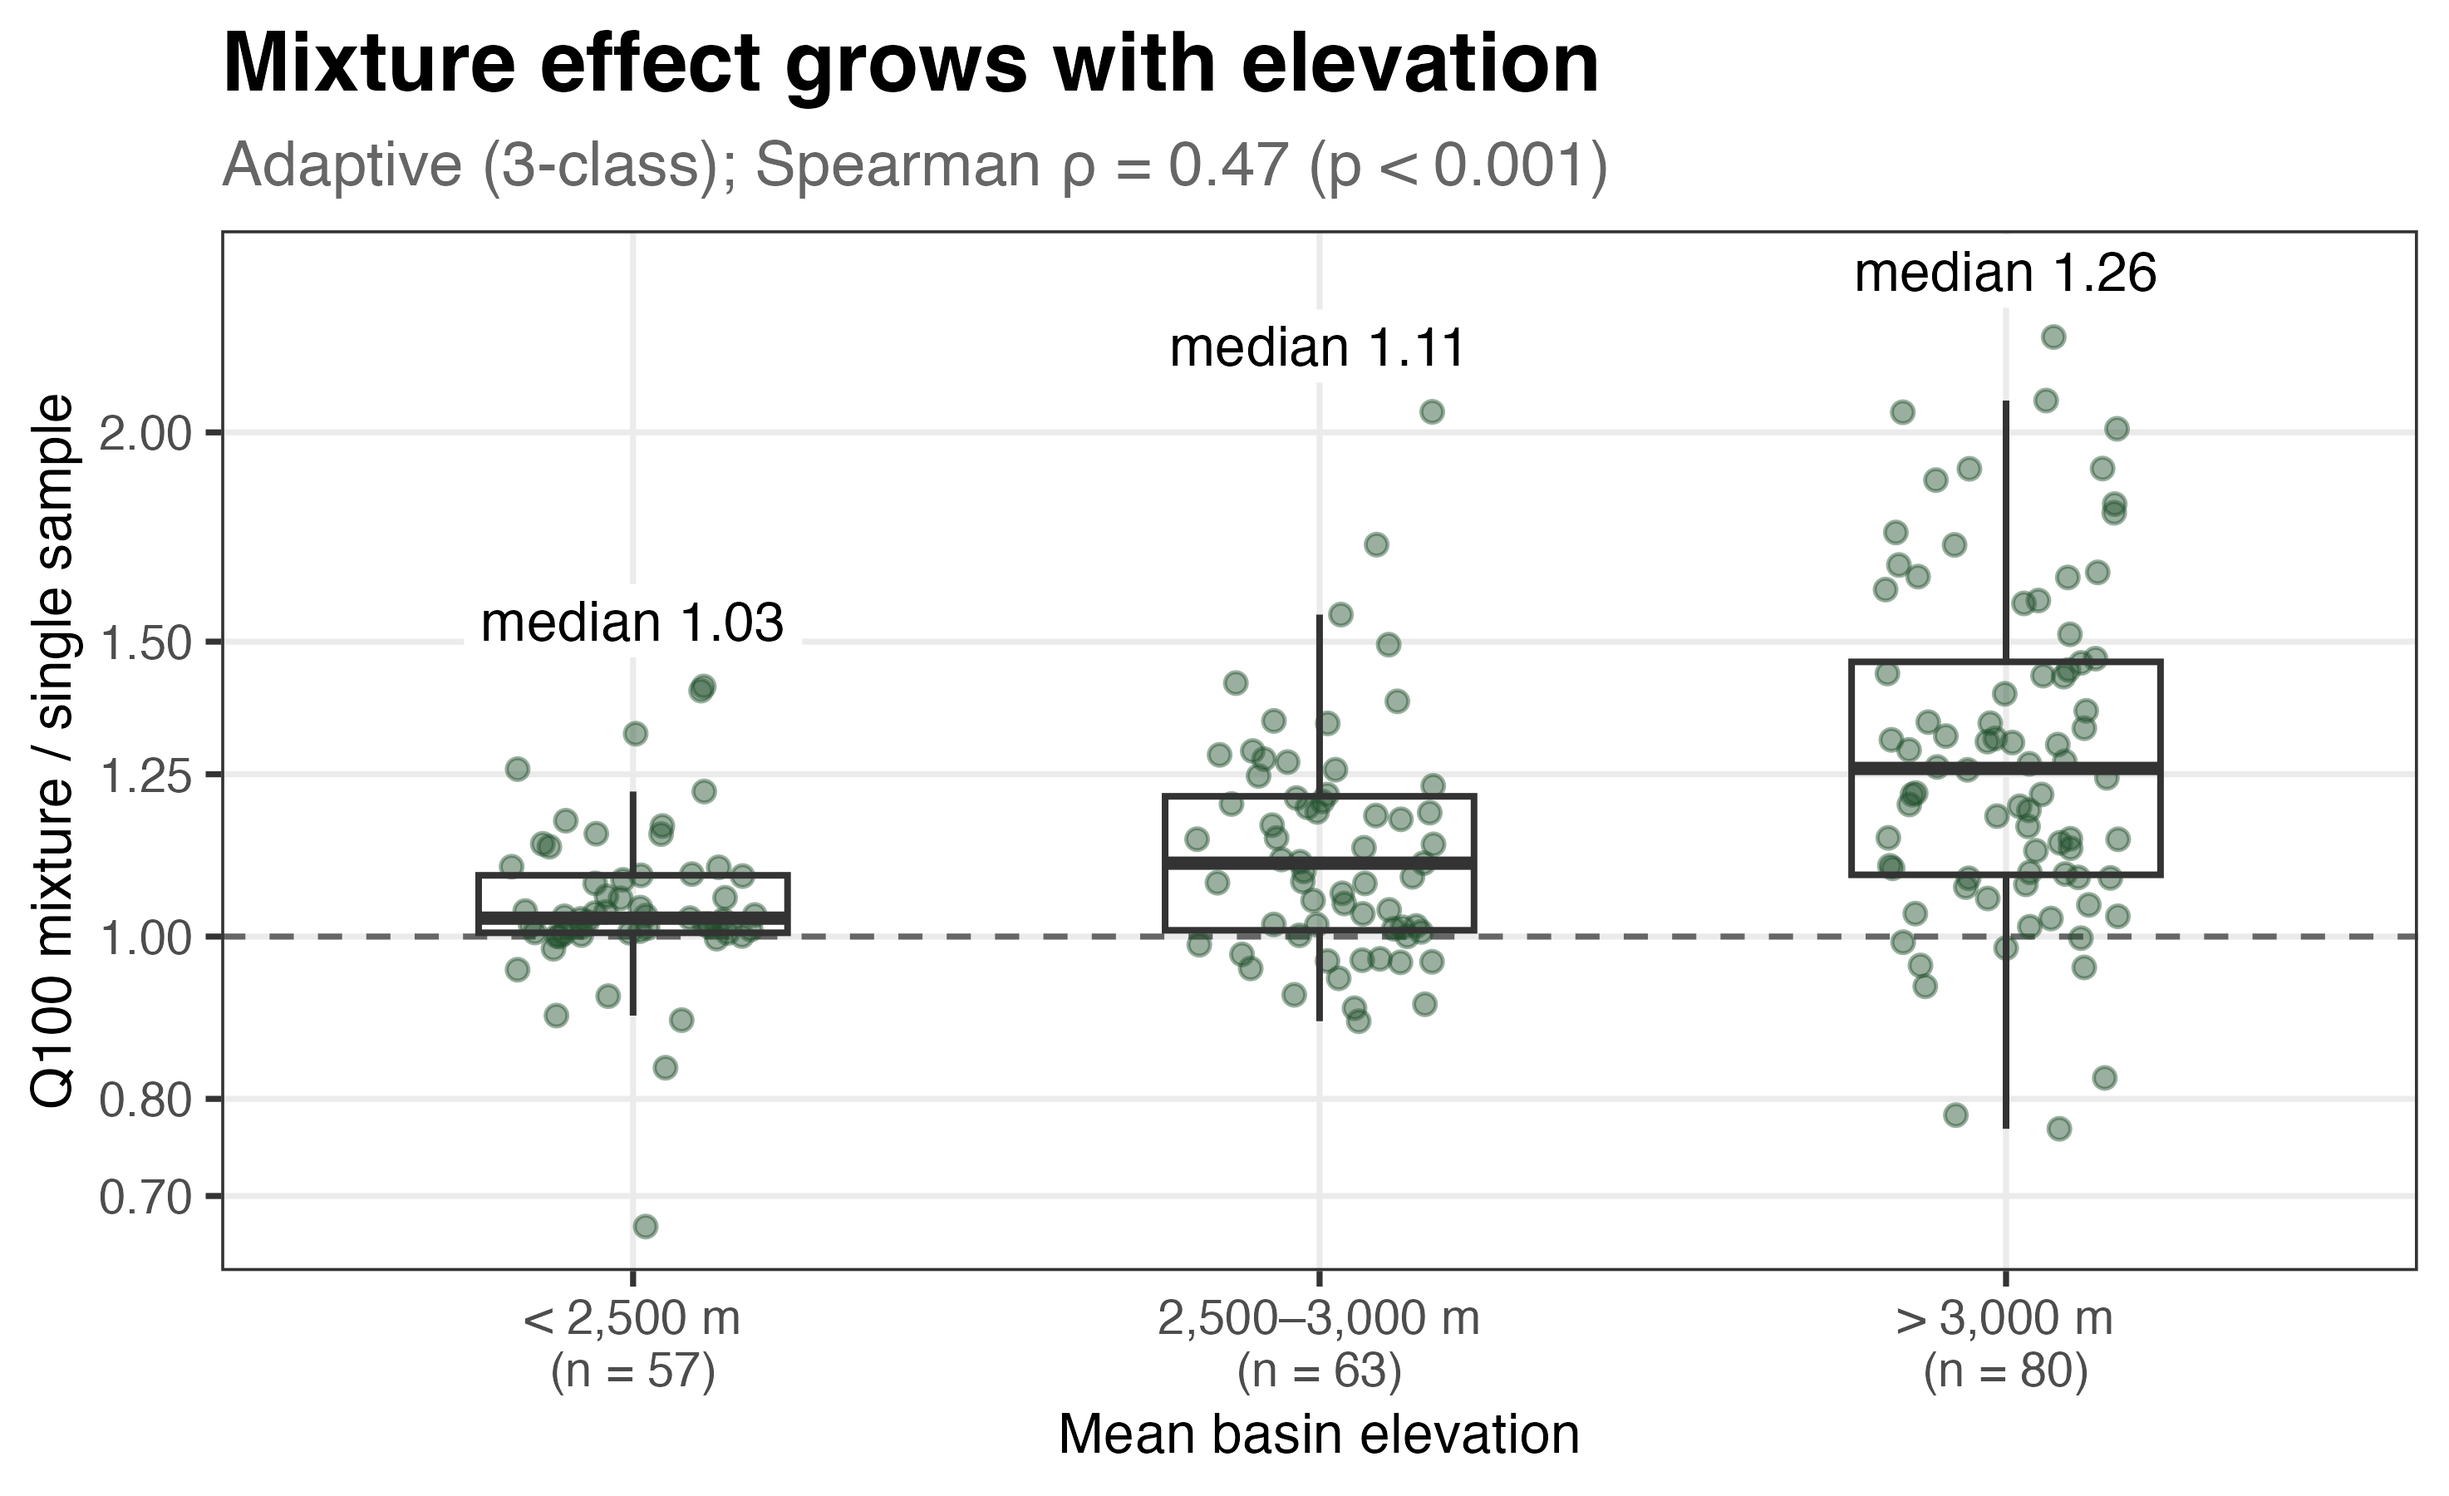
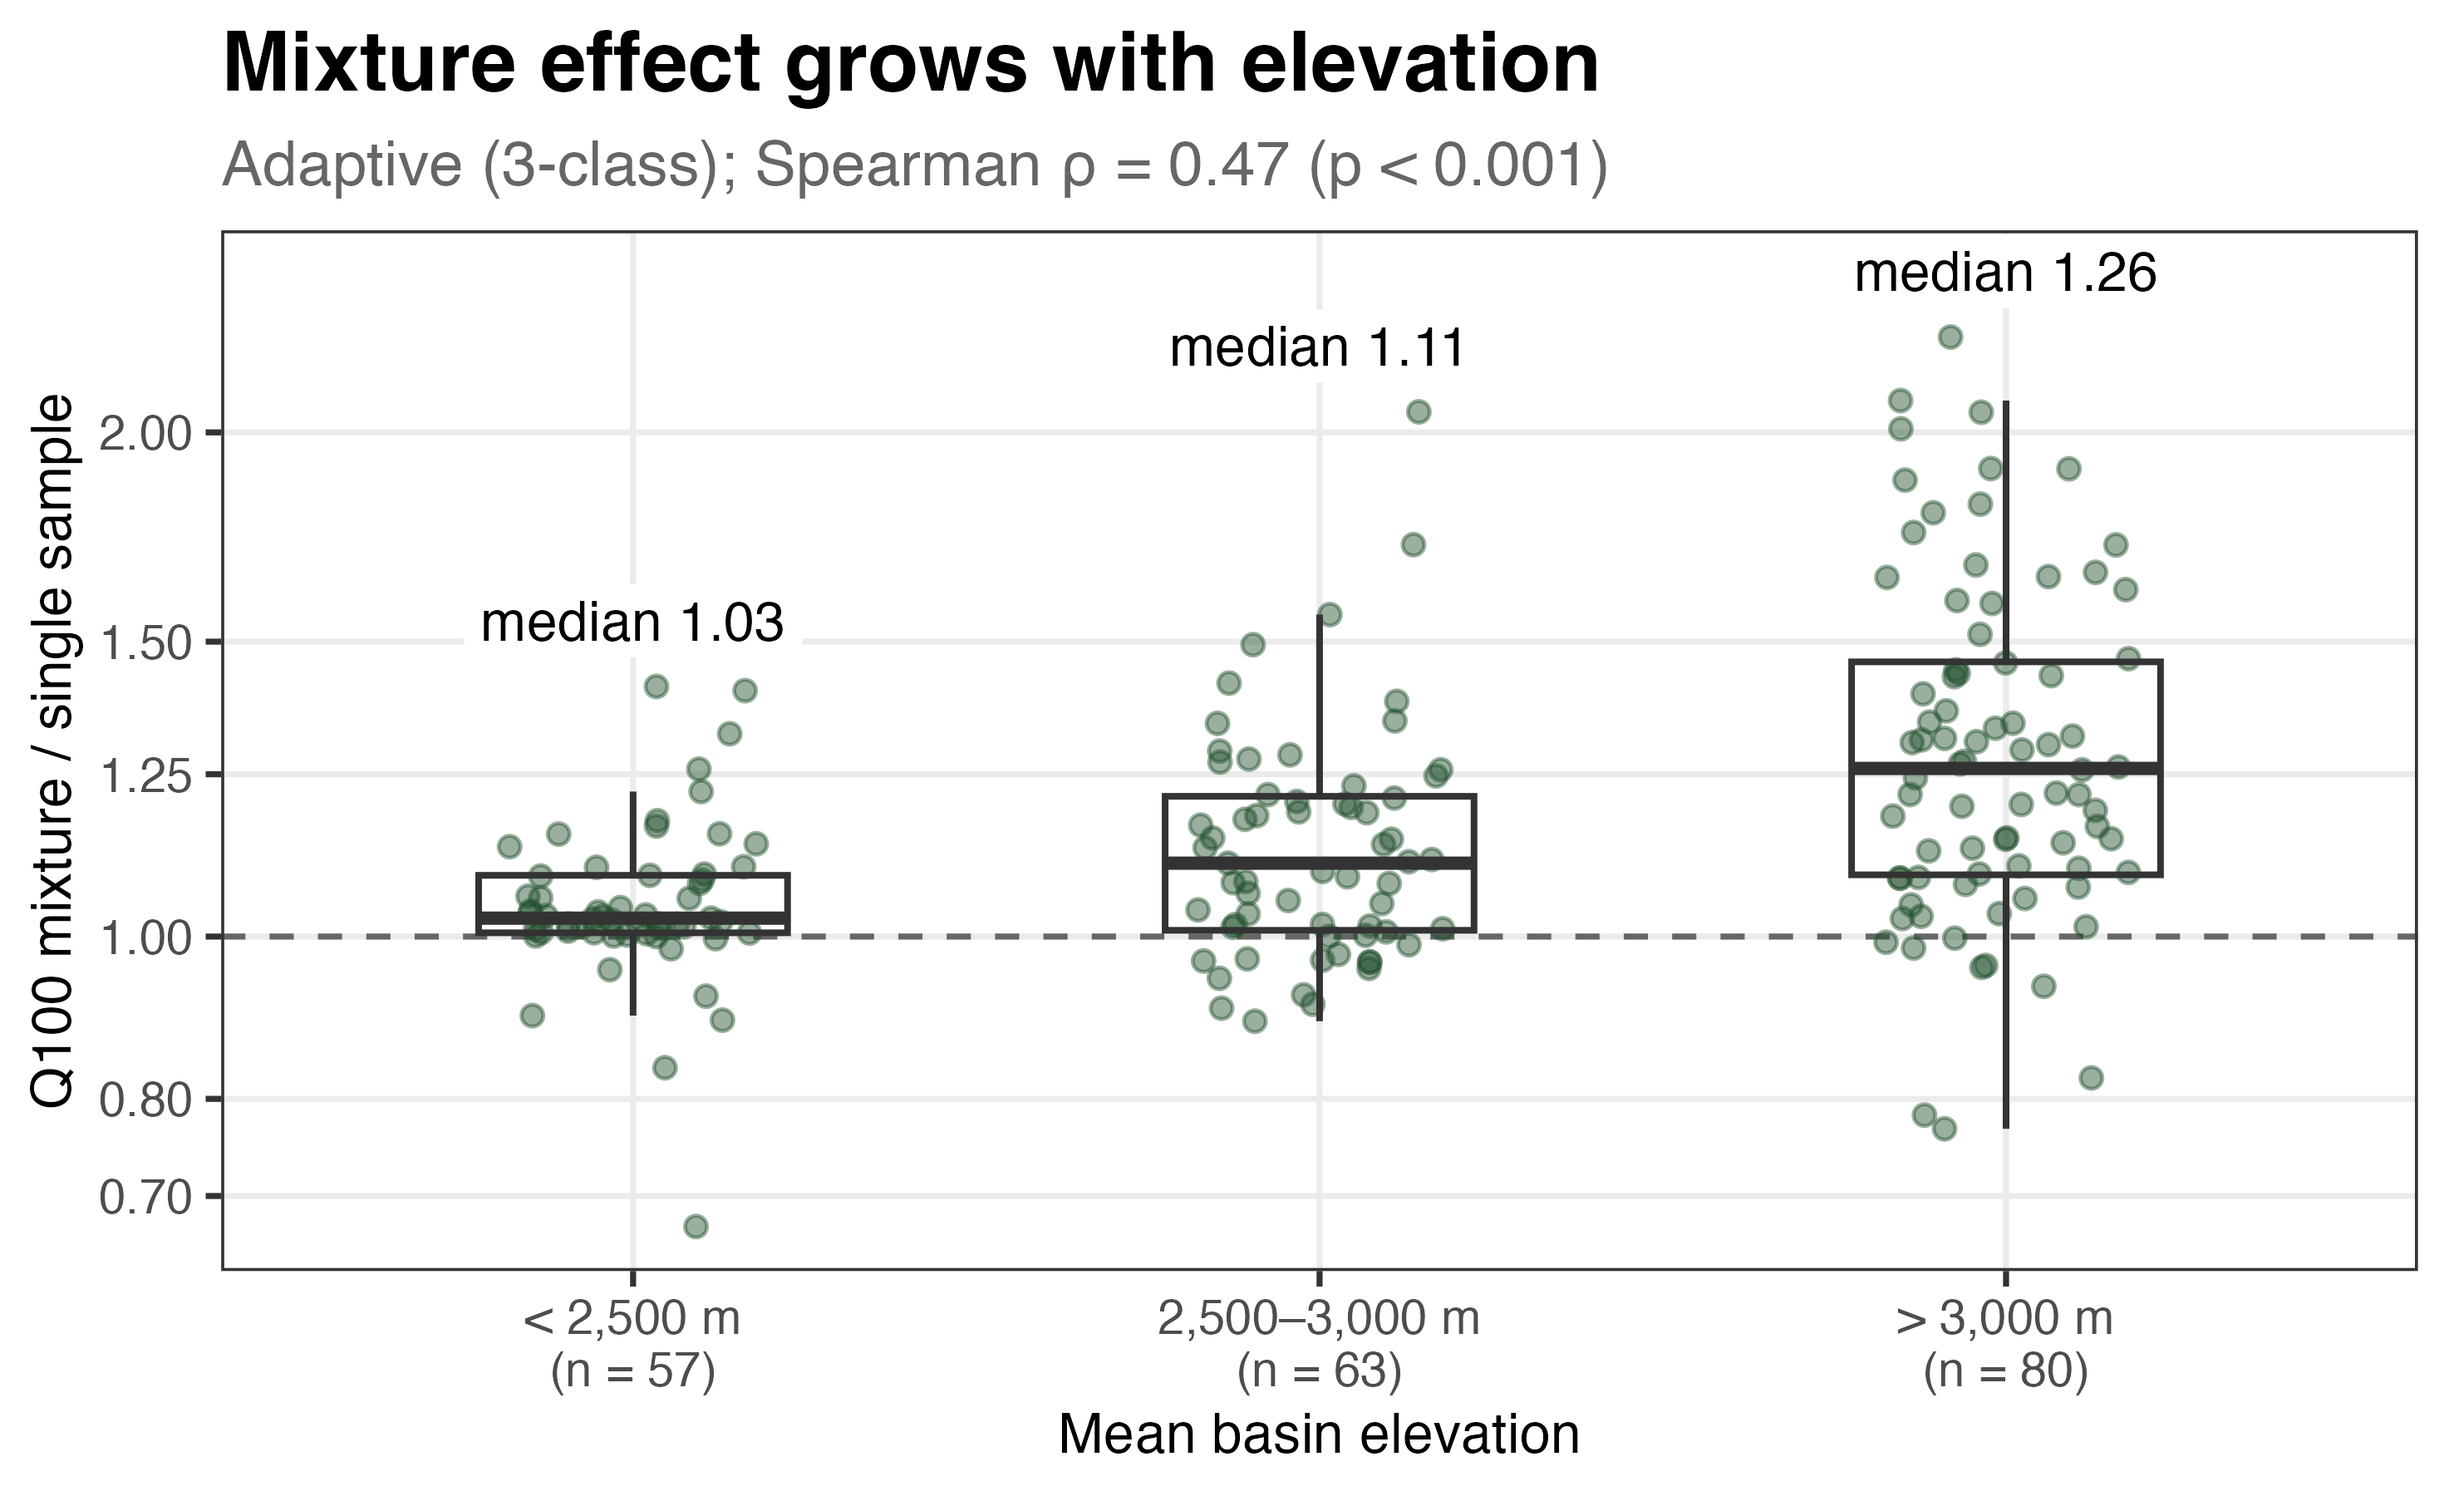
Poster: peak-timing-by-flood-type panel replaces the motivation schematic

diff --git a/_documentation/poster_wireframe/build.js b/_documentation/poster_wireframe/build.js
@@ -64,8 +64,7 @@ bullets([
   "Q: Does a mixed-population FFA change design-flood estimates, at which return periods, and where?",
 ], x, y, W, 3.6, 22);
 y += 3.6;
-placeholder("Schematic: three flood-type curves combining into a mixture", x, y, W, 2.9);
-y += 2.9 + G;
+y = fig("02b_peak_timing_by_type.png", x, y, W, 1200 / 300) + G;
 
 y = header("Each peak classified by rain fraction", x, y, W);
 bullets([
@@ -110,6 +109,7 @@ const tree = (x0, y0, w) => {
 };
 y = tree(x, y, W) + 0.1;
 y = fig("02_composition_by_method.png", x, y, W, 2100 / 300);
+console.log("column 1 ends at", y.toFixed(2), "of", BOT);
 
 // ---- columns 2–3: example site + headline result ----
 x = colX(1); y = TOP;
